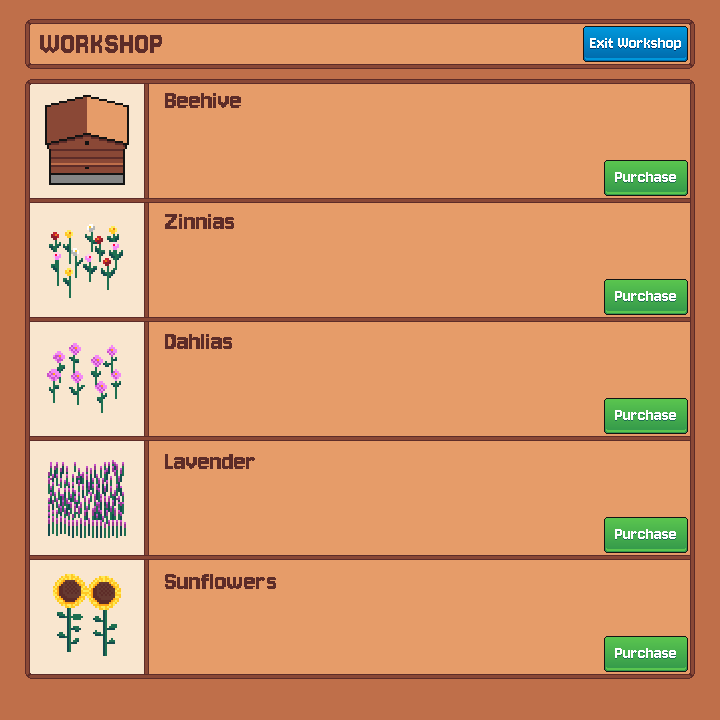
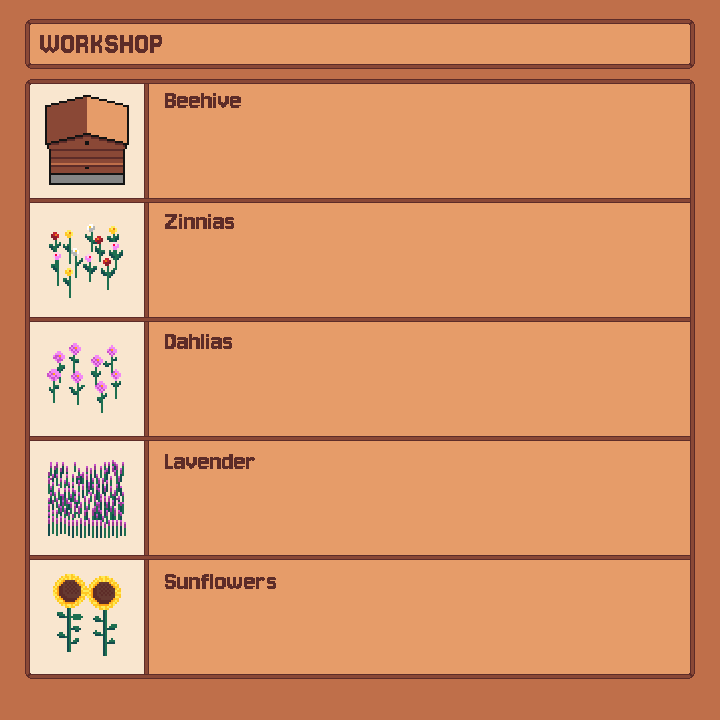
Updated shop page

diff --git a/src/raylib_game.c b/src/raylib_game.c
@@ -173,7 +173,7 @@ static const int ZINNIAS_PRICE = 500;
 static const int DAHLIAS_PRICE = 1000;
 static const int LAVENDERS_PRICE = 2000;
 static const int SUNFLOWERS_PRICE = 5000;
-static const int STARTING_MONEY = 100000;
+static const int STARTING_MONEY = 5000;
 
 static Texture2D hiveSprite;
 static Texture2D harvestBg;
@@ -197,6 +197,7 @@ static Texture2D hexPink;
 static Texture2D hexRed;
 static Texture2D hexYellow;
 static Camera2D gardenCamera;
+static Texture2D purchaseButtonSprite;
 static Rectangle HexGridRect = {
     .x = 73, .y = 73, .width = 575, .height = 415,
 };
@@ -210,9 +211,11 @@ static Button startButton;
 static Button menuButton;
 static Button aboutButton;
 static Button backToMenuButton;
-static Button backToGardenButton;
+static Button exitHarvestButton;
 static Button sellHoneyButton;
 static Button cancelPurchaseButton;
+static Button exitShopButton;
+static Button purchaseButtons[5];
 
 static Font font20;
 static Font font30;
@@ -245,6 +248,7 @@ static Vector2 mouseToHexPointCoordinates();
 static FlowerType chooseFlower(Hive *h);
 static Vector2 hexDrawingCoordinates(Vector2 pos);
 static void drawHarvestScene(void);
+static Button initButton(Texture2D texture, Vector2 position);
 static void updateButton(Button* button);
 static void drawButton(Button* button);
 static void updateHarvestScene(void);
@@ -281,7 +285,7 @@ int main(void)
 
     gs = malloc(sizeof(struct GameState));
     gs->currentScene = MENU;
-    gs->playerPosition = (Vector2){ 100,100 };
+    gs->playerPosition = (Vector2){ 490,120 };
     gs->playerDirection = DOWN;
     gs->playerMoving = false;
     gs->playerNearShop = false;
@@ -329,8 +333,10 @@ int main(void)
         aboutButton.texture = LoadTexture("../../../src/resources/about_button.png");
         backToMenuButton.texture = LoadTexture("../../../src/resources/back_to_menu_button.png");
         sellHoneyButton.texture = LoadTexture("../../../src/resources/sell_honey_button.png");
-        backToGardenButton.texture = LoadTexture("../../../src/resources/back_to_garden_button.png");
+        exitHarvestButton.texture = LoadTexture("../../../src/resources/back_to_garden_button.png");
         cancelPurchaseButton.texture = LoadTexture("../../../src/resources/cancel_purchase_button.png");
+        purchaseButtonSprite = LoadTexture("../../../src/resources/purchase_button.png");
+        exitShopButton.texture = LoadTexture("../../../src/resources/back_to_garden_button.png");
 
         keeperSprites[BACK] = initAnimation("../../../src/resources/character_back.png", 2, 500);
         keeperSprites[FRONT] = initAnimation("../../../src/resources/character_front.png", 2, 500);
@@ -373,9 +379,11 @@ int main(void)
         menuButton.texture = LoadTexture("resources/menu_button.png");
         aboutButton.texture = LoadTexture("resources/about_button.png");
         backToMenuButton.texture = LoadTexture("resources/back_to_menu_button.png");
-        backToGardenButton.texture = LoadTexture("resources/back_to_garden_button.png");
+        exitHarvestButton.texture = LoadTexture("resources/back_to_garden_button.png");
+        exitShopButton.texture = LoadTexture("resources/back_to_garden_button.png");
         sellHoneyButton.texture = LoadTexture("resources/sell_honey_button.png");
         cancelPurchaseButton.texture = LoadTexture("resources/cancel_purchase_button.png");
+        purchaseButtonSprite = LoadTexture("resources/purchase_button.png");
         keeperSprites[BACK] = initAnimation("resources/character_back.png", 2, 500);
         keeperSprites[FRONT] = initAnimation("resources/character_front.png", 2, 500);
         keeperSprites[SIDE] = initAnimation("resources/character_side.png", 2, 500);
@@ -397,7 +405,7 @@ int main(void)
     
     gs->hives = malloc(sizeof(Hive*) * 16);
     gs->numHives = 0;
-    gs->hives[0] = initHive(2, 5);
+    gs->hives[0] = initHive(9, 2);
     gs->numHives++;
 
     // Initialize buttons
@@ -409,12 +417,21 @@ int main(void)
     aboutButton.isDisabled = false;
     backToMenuButton.position = (Vector2){549, 26};
     backToMenuButton.isDisabled = false;
-    backToGardenButton.position = (Vector2){570, 640};
-    backToGardenButton.isDisabled = false;
-    cancelPurchaseButton.position = (Vector2){10, 50};
+    exitHarvestButton.position = (Vector2){570, 640};
+    exitHarvestButton.isDisabled = false;
+    cancelPurchaseButton.position = (Vector2){10, 57};
     cancelPurchaseButton.isDisabled = false;
     sellHoneyButton.position = (Vector2){570, 602};
     sellHoneyButton.isDisabled = false;
+    exitShopButton.position = (Vector2){567, 27};
+    exitShopButton.isDisabled = false;
+
+    purchaseButtons[0] = initButton(purchaseButtonSprite, (Vector2){604, 160});
+    purchaseButtons[1] = initButton(purchaseButtonSprite, (Vector2){604, 279});
+    purchaseButtons[2] = initButton(purchaseButtonSprite, (Vector2){604, 398});
+    purchaseButtons[3] = initButton(purchaseButtonSprite, (Vector2){604, 517});
+    purchaseButtons[4] = initButton(purchaseButtonSprite, (Vector2){604, 636});
+    printf("%d", purchaseButtons[0].texture.height);
 
     PlayMusicStream(music);
     SetMusicPan(music, 0.0);
@@ -712,6 +729,12 @@ void drawShopScene(void) {
     } else {
         DrawTextEx(font30, TextFormat("%i", SUNFLOWERS_PRICE), (Vector2){520, 639}, 30, 0, RED);
     }
+
+    // Draw buttons
+    for (unsigned int i = 0; i < 5; i++) {
+        drawButton(&purchaseButtons[i]);
+    }
+    drawButton(&exitShopButton);
 }
 
 void drawBuildScene(void) {
@@ -900,63 +923,39 @@ void drawGardenScene(void) {
 
 void updateShopScene(void) {
     SetMouseCursor(MOUSE_CURSOR_DEFAULT);
-    Vector2 cursor = GetMousePosition(); 
     
-    Rectangle exitButtonRec = {584, 27, 103, 34};
-    Rectangle purchaseButtons[5];
-    purchaseButtons[0] = (Rectangle){605, 161, 82, 34};
-    purchaseButtons[1] = (Rectangle){605, 280, 82, 34};
-    purchaseButtons[2] = (Rectangle){605, 399, 82, 34};
-    purchaseButtons[3] = (Rectangle){605, 518, 82, 34};
-    purchaseButtons[4] = (Rectangle){605, 637, 82, 34};
+    // Update buttons
+    for (unsigned int i = 0; i < 5; i++) {
+        updateButton(&purchaseButtons[i]);
+    }
+    updateButton(&exitShopButton);
 
-
-    if (CheckCollisionPointRec(cursor, exitButtonRec)) {
-        SetMouseCursor(MOUSE_CURSOR_POINTING_HAND);
-
-        if (IsMouseButtonReleased(MOUSE_LEFT_BUTTON)) {
-            gs->currentScene = GARDEN;
-            return;
-        }
+    if (exitShopButton.isClicked) {
+        gs->currentScene = GARDEN;
+        return;
     }
 
-    for (unsigned int i = 0; i < 5; i++) {
-        if (CheckCollisionPointRec(cursor, purchaseButtons[i])) {
-            SetMouseCursor(MOUSE_CURSOR_POINTING_HAND);
+    purchaseButtons[0].isDisabled = gs->money < HIVE_PRICE;
+    purchaseButtons[1].isDisabled = gs->money < ZINNIAS_PRICE;
+    purchaseButtons[2].isDisabled = gs->money < DAHLIAS_PRICE;
+    purchaseButtons[3].isDisabled = gs->money < LAVENDERS_PRICE;
+    purchaseButtons[4].isDisabled = gs->money < SUNFLOWERS_PRICE;
 
-            if (i == 0 && gs->money < HIVE_PRICE) {
-                SetMouseCursor(MOUSE_CURSOR_NOT_ALLOWED);
-            } else if (i == 1 && gs->money < ZINNIAS_PRICE) {
-                SetMouseCursor(MOUSE_CURSOR_NOT_ALLOWED);
-            } else if (i == 2 && gs->money < DAHLIAS_PRICE) {
-                SetMouseCursor(MOUSE_CURSOR_NOT_ALLOWED);
-            } else if (i == 3 && gs->money < LAVENDERS_PRICE) {
-                SetMouseCursor(MOUSE_CURSOR_NOT_ALLOWED);
-            } else if (i == 4 && gs->money < SUNFLOWERS_PRICE) {
-                SetMouseCursor(MOUSE_CURSOR_NOT_ALLOWED);
-            }
-        
-
-            if (IsMouseButtonReleased(MOUSE_LEFT_BUTTON)) {
-                if (i == 0 && gs->money >= HIVE_PRICE) {
-                    gs->currentScene = BUILD;
-                    gs->currentlyBuilding = BUILD_HIVE;
-                } else if (i == 1 && gs->money >= ZINNIAS_PRICE) {
-                    gs->currentScene = BUILD;
-                    gs->currentlyBuilding = BUILD_ZINNIAS;
-                } else if (i == 2 && gs->money >= DAHLIAS_PRICE) {
-                    gs->currentScene = BUILD;
-                    gs->currentlyBuilding = BUILD_DAHLIAS;
-                } else if (i == 3 && gs->money >= LAVENDERS_PRICE) {
-                    gs->currentScene = BUILD;
-                    gs->currentlyBuilding = BUILD_LAVENDERS;
-                } else if (i == 4 && gs->money >= SUNFLOWERS_PRICE) {
-                    gs->currentScene = BUILD;
-                    gs->currentlyBuilding = BUILD_SUNFLOWERS;
-                }
-                break;
-            }
-        }
+    if (purchaseButtons[0].isClicked && gs->money >= HIVE_PRICE) {
+        gs->currentScene = BUILD;
+        gs->currentlyBuilding = BUILD_HIVE;
+    } else if (purchaseButtons[1].isClicked && gs->money >= ZINNIAS_PRICE) {
+        gs->currentScene = BUILD;
+        gs->currentlyBuilding = BUILD_ZINNIAS;
+    } else if (purchaseButtons[2].isClicked && gs->money >= DAHLIAS_PRICE) {
+        gs->currentScene = BUILD;
+        gs->currentlyBuilding = BUILD_DAHLIAS;
+    } else if (purchaseButtons[3].isClicked && gs->money >= LAVENDERS_PRICE) {
+        gs->currentScene = BUILD;
+        gs->currentlyBuilding = BUILD_LAVENDERS;
+    } else if (purchaseButtons[4].isClicked && gs->money >= SUNFLOWERS_PRICE) {
+        gs->currentScene = BUILD;
+        gs->currentlyBuilding = BUILD_SUNFLOWERS;
     }
 }
 
@@ -1056,6 +1055,18 @@ void drawHud(void) {
     Vector2 stringSize = MeasureTextEx(font30, moneyString, 30, 0);
     DrawTexture(coin, 670-stringSize.x, 690, WHITE); 
     DrawTextEx(font30, moneyString, (Vector2){690-stringSize.x, 683}, 30, 0, WHITE);
+}
+
+static Button initButton(Texture2D texture, Vector2 position) {
+    Button b;
+
+    b.isClicked = false;
+    b.isDisabled = false;
+    b.isHovered = false;
+    b.texture = texture;
+    b.position = position;
+
+    return b;
 }
 
 static void updateButton(Button* button) {
@@ -1417,6 +1428,7 @@ static FlowerType chooseFlower(Hive *h) {
                 case FLOWER_SUNFLOWERS:
                     sunflowers += 1;
                     break;
+                default: {}
             }
         }
     }
@@ -1463,7 +1475,7 @@ static void drawHarvestScene(void) {
     }
     DrawTexture(harvestBg, 0, 0, WHITE);
     drawButton(&sellHoneyButton);
-    drawButton(&backToGardenButton);
+    drawButton(&exitHarvestButton);
     
     Hive *h = gs->hives[gs->activeHiveIndex];
     for (int c = 0; c < COLUMN_COUNT; c++) {
@@ -1498,6 +1510,7 @@ static void drawHarvestScene(void) {
                         t = &hexOrange;
                         break;
                     }
+                    default: {}
                 }
                 DrawTexture(*t, pos.x, pos.y, color);
             }
@@ -1525,7 +1538,7 @@ static void drawHarvestScene(void) {
 static void updateHarvestScene() {
     updateButton(&sellHoneyButton);
     sellHoneyButton.isDisabled = gs->jar.iteration != JAR_ITERATIONS - 1;
-    updateButton(&backToGardenButton);
+    updateButton(&exitHarvestButton);
 
     if (!sellHoneyButton.isDisabled && sellHoneyButton.isClicked) {
         gs->jar.iteration = 0;
@@ -1534,7 +1547,7 @@ static void updateHarvestScene() {
         PlaySound(sellHoney);
     }
 
-    if (backToGardenButton.isClicked) {
+    if (exitHarvestButton.isClicked) {
         clearHarvestChain();
         gs->currentScene = GARDEN;
     }
@@ -1578,7 +1591,6 @@ static void updateHarvestScene() {
             if (firstFreeIdx < HARVEST_CHAIN_COUNT) {
                 if (firstFreeIdx != 0) {
                     // Priorier entry
-                    Vector2 hex = harvestChain[firstFreeIdx - 1];
                     if (!isNeighbor) {
                         return;
                     }